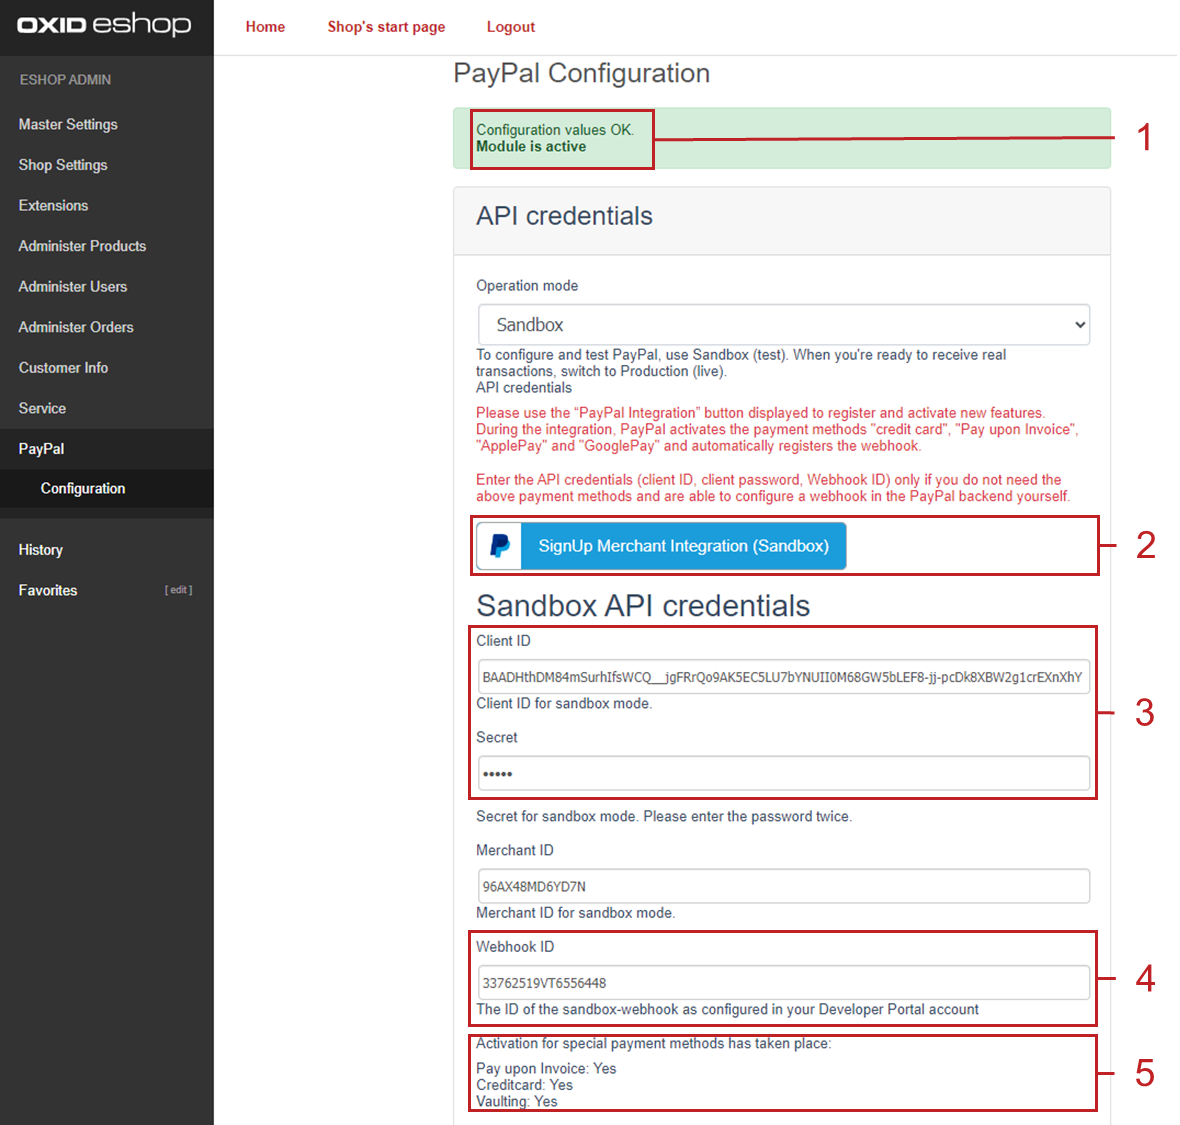
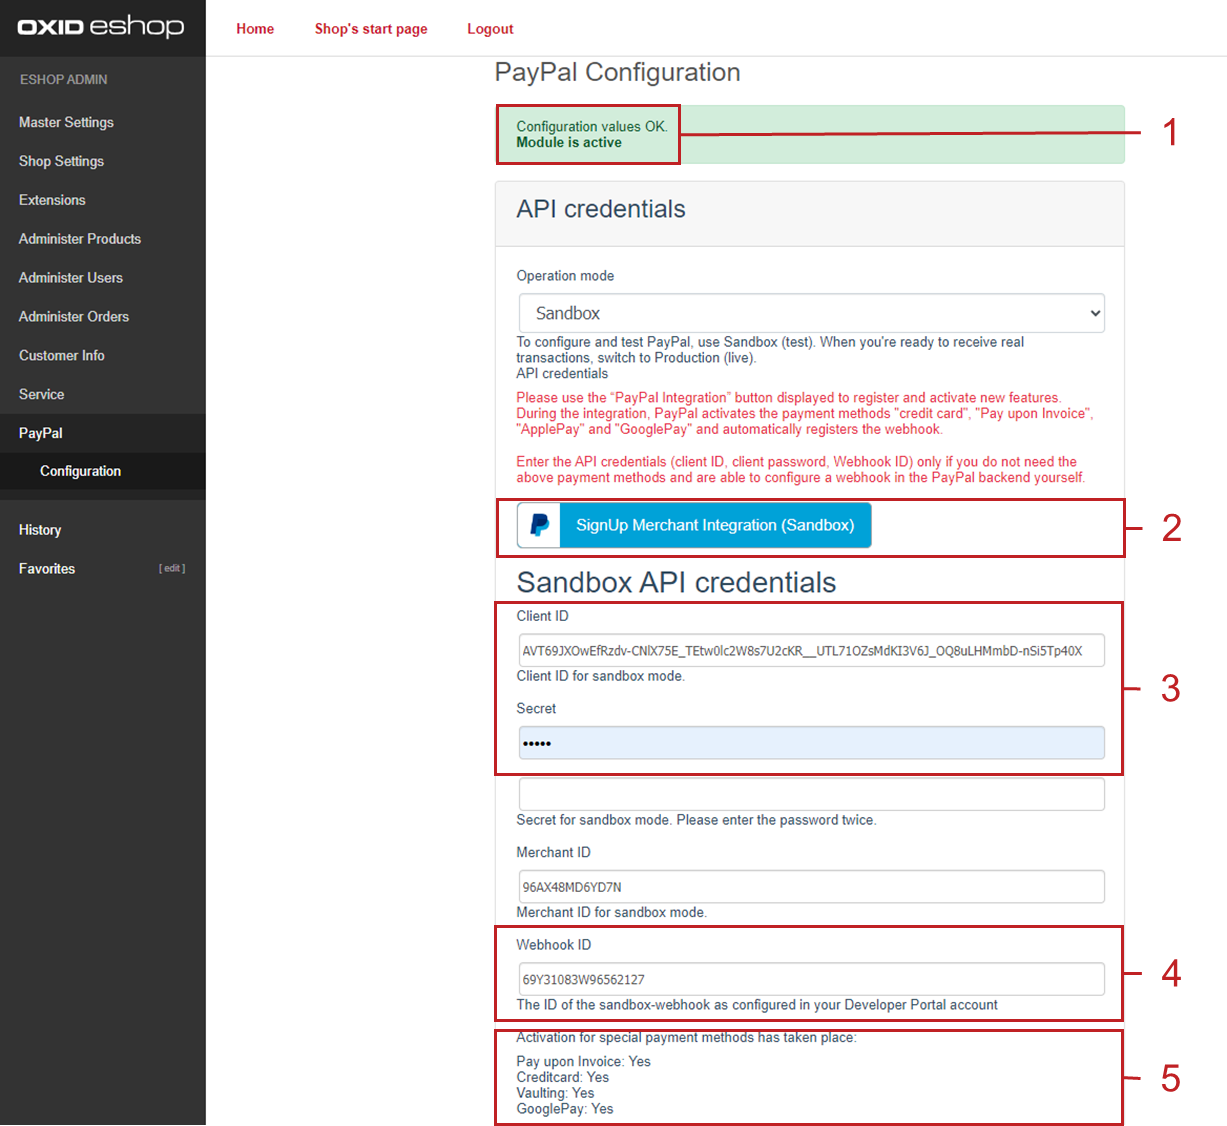
OXDEV-8288: PayPal Checkout V. 2.4.1 draft transl.

Changed region(s): [[0.0, 0.0, 0.9763, 1.0]]

diff --git a/conf.py b/conf.py
@@ -70,7 +70,7 @@ author = 'OXID eSales AG'
 # The short X.Y version.
 version = '2.4'
 # The full version, including alpha/beta/rc tags.
-release = '2'
+release = '2.4.1'
 
 # The language for content autogenerated by Sphinx. Refer to documentation
 # for a list of supported languages.

diff --git a/introduction.rst b/introduction.rst
@@ -36,6 +36,7 @@ In each case, note the currency coverage of each payment method (see :ref:`intro
 Market            Payment Methods
 ================= ==========================
 Worldwide         Credit card
+Worldwide         Google Pay
 Worldwide         PayPal
 Worldwide         PayPal Express
 Austria           eps
@@ -56,8 +57,8 @@ United States     PayPal - Pay Later
 ================= ==========================
 
 
-Market coverage by payment methods
-^^^^^^^^^^^^^^^^^^^^^^^^^^^^^^^^^^
+Market coverage by payment method
+^^^^^^^^^^^^^^^^^^^^^^^^^^^^^^^^^
 
 In each case, note the currency coverage of each payment method (see :ref:`introduction:currency coverage by payment method`).
 
@@ -69,16 +70,17 @@ BLIK                            Poland
 Credit card                     Worldwide
 eps                             Austria
 GiroPay                         Germany
+Google Pay                      Worldwide
 iDEAL                           Netherlands
 PayPal                          Worldwide
 PayPal Express                  Worldwide
-PayPal - Pay Later               Austria
-PayPal - Pay Later               France
-PayPal - Pay Later               Germany
-PayPal - Pay Later               Great Britain
-PayPal - Pay Later               Italy
-PayPal - Pay Later               Spain
-PayPal - Pay Later               United States
+PayPal - Pay Later              Austria
+PayPal - Pay Later              France
+PayPal - Pay Later              Germany
+PayPal - Pay Later              Great Britain
+PayPal - Pay Later              Italy
+PayPal - Pay Later              Spain
+PayPal - Pay Later              United States
 Przelewy24                      Poland
 Pay upon Invoice                Germany
 SEPA Direct Debit               Germany
@@ -90,18 +92,20 @@ Currency coverage by payment method
 =============================== ===============
 Payment methods                 Currencies
 =============================== ===============
-PayPal                          AUD, BRL, CAD, CNY, CZK, DKK, EUR, HKD, HUF, ILS, JPY, MYR, MXN, TWD, NZD, NOK, PHP, PLN, GBP, RUB, SGD, SEK, CHF, THB, USD
-PayPal Express                  AUD, BRL, CAD, CNY, CZK, DKK, EUR, HKD, HUF, ILS, JPY, MYR, MXN, TWD, NZD, NOK, PHP, PLN, GBP, RUB, SGD, SEK, CHF, THB, USD
-PayPal - Später bezahlen        AUD, EUR, GBP, USD
-Rechnungskauf                   EUR
-Kreditkarte                     AUD, CAD, CHF, CZK, DKK, EUR, GBP, HKD, HUF, JPY, NOK, NZD, PLN, SEK, SGD, USD
 Bancontact                      EUR
 BLIK                            PLN
 EPS                             EUR
 GiroPay                         EUR
+Google Pay                      AUD, BRL, CAD, CNY, CZK, DKK, EUR, HKD, HUF, ILS, JPY, MYR, MXN, TWD, NZD, NOK, PHP, PLN, GBP, RUB, SGD, SEK, CHF, THB, USD
 Ideal                           EUR
+Kreditkarte                     AUD, CAD, CHF, CZK, DKK, EUR, GBP, HKD, HUF, JPY, NOK, NZD, PLN, SEK, SGD, USD
+PayPal                          AUD, BRL, CAD, CNY, CZK, DKK, EUR, HKD, HUF, ILS, JPY, MYR, MXN, TWD, NZD, NOK, PHP, PLN, GBP, RUB, SGD, SEK, CHF, THB, USD
+PayPal Express                  AUD, BRL, CAD, CNY, CZK, DKK, EUR, HKD, HUF, ILS, JPY, MYR, MXN, TWD, NZD, NOK, PHP, PLN, GBP, RUB, SGD, SEK, CHF, THB, USD
+PayPal - Später bezahlen        AUD, EUR, GBP, USD
 Przelewy24                      EUR, PLN
+Rechnungskauf                   EUR
 =============================== ===============
+
 
 You have the PayPal module?
 ---------------------------

diff --git a/installation.rst b/installation.rst
@@ -43,11 +43,11 @@ For OXID eShop version 6.3.x to 6.5.x, install the payment module :productname:`
 
       cd /var/www/oxideshop
 
-#. Execute the following commands:
+#. Execute the following command:
 
    .. code:: bash
 
-      composer require oxid-solution-catalysts/paypal-module ^2.4.0
+      composer require oxid-solution-catalysts/paypal-module ^2.4.1
 
 #. Optional: To activate the module, run the following command.
    |br|
@@ -71,7 +71,7 @@ When the installation process is finished, the module :guilabel:`PayPal Checkout
 Installing a minor update
 -------------------------
 
-If you use a deprecated version, perform a minor update, for example from :productname:`PayPal Checkout` version 2.3.0 to version 2.4.0.
+If you use a deprecated version, perform a minor update, for example from :productname:`PayPal Checkout` version 2.3.0 to version 2.4.1.
 
 |procedure|
 
@@ -79,31 +79,30 @@ If you use a deprecated version, perform a minor update, for example from :produ
 
    .. code:: bash
 
-      composer require oxid-solution-catalysts/paypal-module ^2.4.0
+      composer require oxid-solution-catalysts/paypal-module ^2.4.1
       composer update
 
 #. To be able to use new payment methods or functions, go through the registration process (onboarding) again.
 
    For more information, see :ref:`configuration:API credentials: Onboarding`.
 
-.. todo: mit 240 reaktivieren
-    Installing a patch update
-    -------------------------
-    If required, install a patch update, from :productname:`PayPal Checkout` version 2.3.0 to version 2.3.1, for example.
-    |procedure|
-    1. Execute the following command:
-       .. code:: bash
-          composer update
-    #. Confirm the prompt whether to overwrite the :file:`oxid-solution-catalysts/paypal-module` files.
-       .. attention::
-          **Check country mappings after update to PayPal Checkout version 2.1.5**.
-          With version 2.1.4 the country coverage of individual :productname:`PayPal Checkout` payment methods has been extended.
-          Make sure that you can use the extended country coverage.
-          Background: With :productname:`PayPal Checkout` version 2.1.5, countries are automatically assigned to payment methods during initial installation (see :ref:`configuration:Optional: Configuring the country mapping of PayPal Checkout payment methods`).
-          This may cause configuration settings of your existing version to block the use of extended country mappings.
-          Do the following:
-          1. Choose :menuselection:`Shop Settings --> Payment Methods --> <payment method> --> Country --> Assign Countries`.
-          #. To use the entire country coverage of a payment type, delete existing mappings.
+
+Installing a patch update
+-------------------------
+If required, install a patch update, from :productname:`PayPal Checkout` version 2.4.0 to version 2.4.1, for example.
+
+|procedure|
+
+1. Execute the following command:
+
+   .. code:: bash
+
+      composer update
+
+#. Confirm the prompt whether to overwrite the :file:`oxid-solution-catalysts/paypal-module` files.
+#. To be able to use new payment methods or functions, go through the registration process (onboarding) again.
+
+   For more information, see :ref:`configuration:API credentials: Onboarding`.
 
 
 .. Internal: oxdajq, status:

diff --git a/configuration.rst b/configuration.rst
@@ -1,7 +1,6 @@
 Configuration
 =============
 
-
 Make the :productname:`PayPal Checkout` module operational for your OXID eShop.
 
 You already have PayPal or PayPal Plus?
@@ -229,6 +228,16 @@ Only when everything works as you want, use the credentials for *live* operation
   |br|
   For more information, see :ref:`paypal-sandbox:Setting up temporary SSL`.
 
+* If you want to offer Google Pay, for test payments you have
+
+  * a Google account
+  * a credit card
+
+  If you make payments with your credit card in sandbox mode, your credit card will :emphasis:`not` be charged. Google will replace your real credit card number with a sample credit card number.
+
+  .. todo: #ML: Unter welcher URL finde ich bei PayPal etwas über Google Pay?
+    Weitere Informationen finden Sie in der PayPal-Checkout-Dokumentation unter `Development resources --> Integration --> Testing --> Test card numbers --> Google Pay <https://docs.adyen.com/development-resources/testing/test-card-numbers#google-pay>`_.
+
 |procedure|
 
 We describe the registration process (onboarding) using a sandbox account as an example. The live process is analogous.
@@ -432,8 +441,8 @@ For more information about country coverage and country-specific features of the
 1. To offer your customers Pay Later features, choose the :guilabel:`"Show Pay Later" button?` checkbox (:ref:`oxdajr10`, item 2).
 #. Save your settings.
 
-Login with PayPal
-^^^^^^^^^^^^^^^^^
+Login with PayPal: Activating automatic login
+^^^^^^^^^^^^^^^^^^^^^^^^^^^^^^^^^^^^^^^^^^^^^
 
 Set customers to be automatically logged into your OXID eShop
 
@@ -647,7 +656,7 @@ Banner settings: Re-using your PayPal banner settings
 
 Optional: If you already use the :productname:`PayPal` module, conveniently re-use your banner settings for :productname:`PayPal Checkout`.
 
-Alternatively, set the banner settings manually as described below under :ref:`configuration:Banner settings`.
+Alternatively, set the banner settings manually as described below under :ref:`configuration:Banner settings: Configuring PayPal installments`.
 
 |prerequisites|
 
@@ -661,8 +670,8 @@ Alternatively, set the banner settings manually as described below under :ref:`c
    The button appears only if the :productname:`PayPal` module is still activated.
 #. Save your settings.
 
-Banner settings
-^^^^^^^^^^^^^^^
+Banner settings: Configuring PayPal installments
+^^^^^^^^^^^^^^^^^^^^^^^^^^^^^^^^^^^^^^^^^^^^^^^^
 
 Specify whether you want to advertise PayPal installments with banners (:ref:`oxdajr08`).
 

diff --git a/releases/paypal-checkout-241.rst b/releases/paypal-checkout-241.rst
@@ -1,0 +1,68 @@
+PayPal Checkout V. 2.4.1
+========================
+
+Release date: #tbd-2024
+
+New or changed functions
+------------------------
+
+We have added the Google Pay payment method.
+
+Google Pay
+^^^^^^^^^^
+
+With Google Pay, enable payment transactions worldwide and in 25 currencies.
+
+For more information on coverage, see
+
+* :ref:`introduction:Market coverage by payment method`
+* :ref:`introduction:Currency coverage by payment method`
+
+|procedure|
+
+1. Install or update :productname:`PayPal Checkout`.
+#. Go through the registration process (onboarding) (also for an update).
+
+   For more information, see :ref:`configuration:API credentials: Onboarding`.
+
+#. Verify that the Google Pay payment method has been activated (:ref:`oxdajr05rn`, item 5).
+
+   .. _oxdajr05rn:
+
+   .. figure:: /media/screenshots/oxdajr05.png
+      :alt: Client ID/password and webhook ID generated
+      :width: 650
+      :class: with-shadow
+
+      Fig.: Client ID/password and webhook ID generated
+
+   If no activation has taken place, contact PayPal support.
+
+#. Configure the Google Pay country assignment.
+
+   For more information, see :ref:`configuration:Optional: Configuring the country mapping of PayPal Checkout payment methods`.
+
+#. To configure the Google Pay payment method, choose :menuselection:`Shop Settings --> Payment Methods --> GooglePay`.
+
+#. Activate Google Pay for live operation after testing.
+
+   For more information, see :ref:`configuration:Unlocking PayPal Checkout`.
+
+
+Installation
+------------
+
+To use :productname:`PayPal Checkout` V. 2.4.1, install it in your :productname:`OXID eShop` 6.3.x to 6.5.x
+
+For more information, see :ref:`installation:Installation`.
+
+
+Update
+------
+
+To use the functions and corrections of :productname:`PayPal Checkout` V. 2.4.1, update.
+
+For more information, see
+
+* :ref:`installation:Installing a minor update`
+* :ref:`installation:Installing a patch update`

diff --git a/releases/index.rst b/releases/index.rst
@@ -5,6 +5,7 @@ Release Notes
    :maxdepth: 1
    :caption: Paypal Checkout
 
+   Release Notes Paypal Checkout 2.4.1 <paypal-checkout-241.rst>
    Release Notes Paypal Checkout 2.4.0 <paypal-checkout-240.rst>
    Release Notes Paypal Checkout 2.3.0 <paypal-checkout-230.rst>
-   Changelog (GitHub) <https://github.com/OXID-eSales/paypal-module/blob/v2.4.0/CHANGELOG.md>
+   Changelog (GitHub) <https://github.com/OXID-eSales/paypal-module/blob/v2.4.1/CHANGELOG.md>
